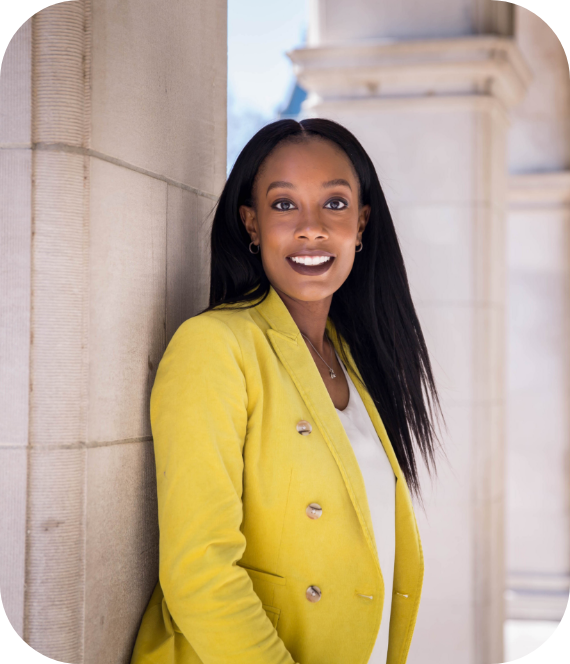
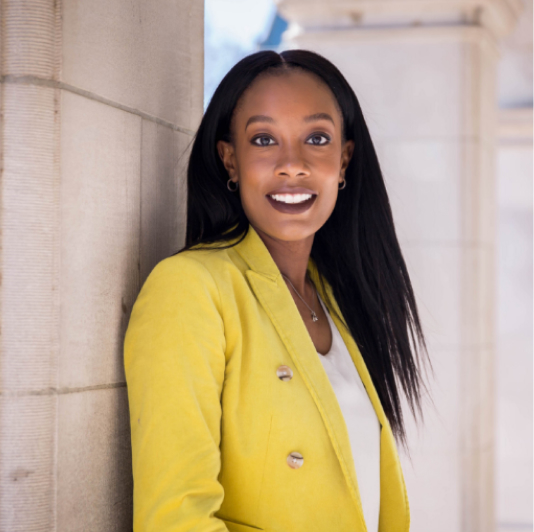
Set responsive styles for about section

diff --git a/src/styles/About.scss b/src/styles/About.scss
@@ -20,6 +20,12 @@
       width: 80%;
     }
 
+    @media screen and (min-width: $tablet-max) {
+      // align-self: flex-start;
+      // margin-top: 140px;
+      width: 70%;
+    }
+
     h4 {
       font-family: "Roboto Mono Medium", sans-serif;
       font-variant: small-caps;
@@ -34,6 +40,10 @@
 
       @media screen and (min-width: 426px) {
         width: 80%;
+      }
+
+      @media screen and (min-width: $tablet-max) {
+        font-size: 22px;
       }
     }
 
@@ -52,6 +62,9 @@
           font-weight: 500;
           text-decoration: underline;
         }
+        @media screen and (min-width: $tablet-min) {
+          margin-bottom: 25px;
+        }
       }
 
       &:last-of-type {
@@ -61,12 +74,27 @@
           color: white;
           font-weight: 500;
         }
+
+        @media screen and (min-width: $tablet-min) {
+          margin-top: 25px;
+        }
+      }
+
+      @media screen and (min-width: $tablet-min) {
+        line-height: 25px;
       }
     }
 
     img {
       width: 147px;
       height: 147px;
+
+      @media screen and (min-width: $tablet-max) {
+        width: 270px;
+        height: auto;
+        border-radius: 50%;
+        margin-top: 50px;
+      }
     }
   }
 }
